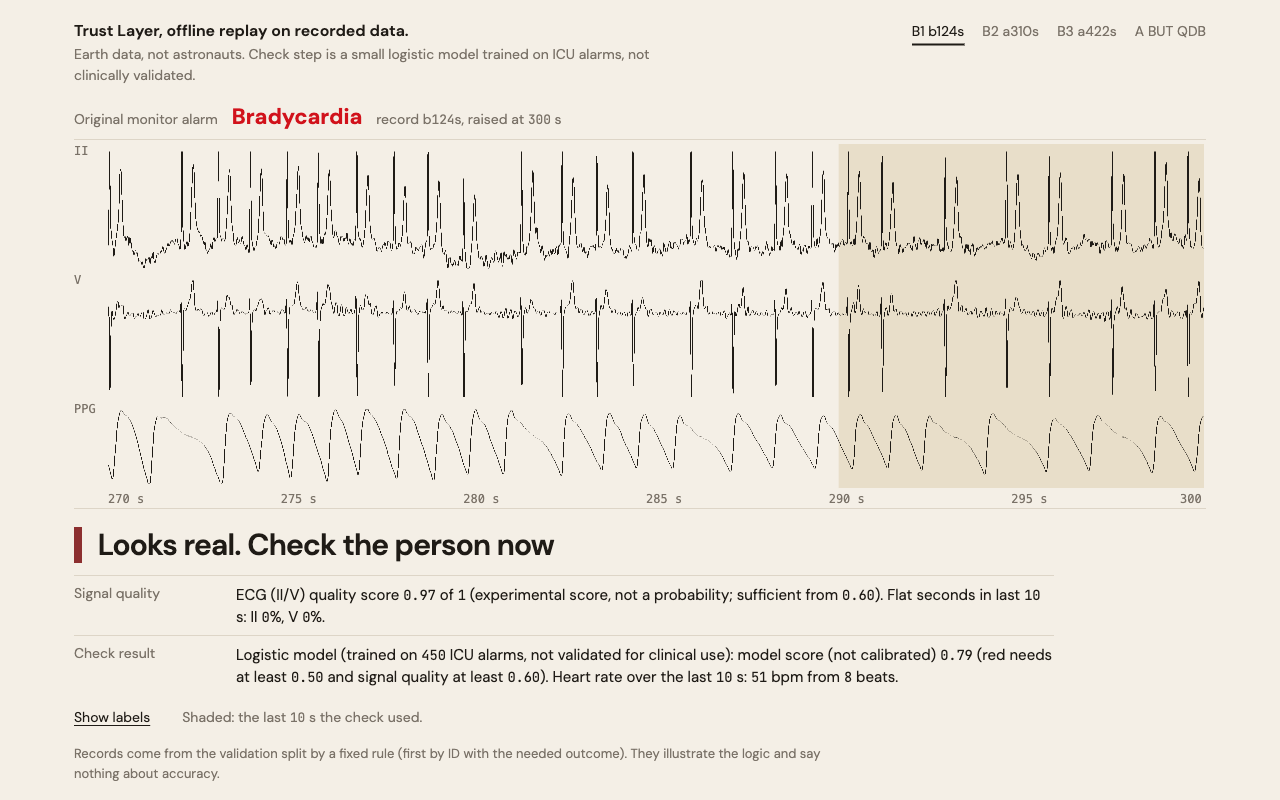
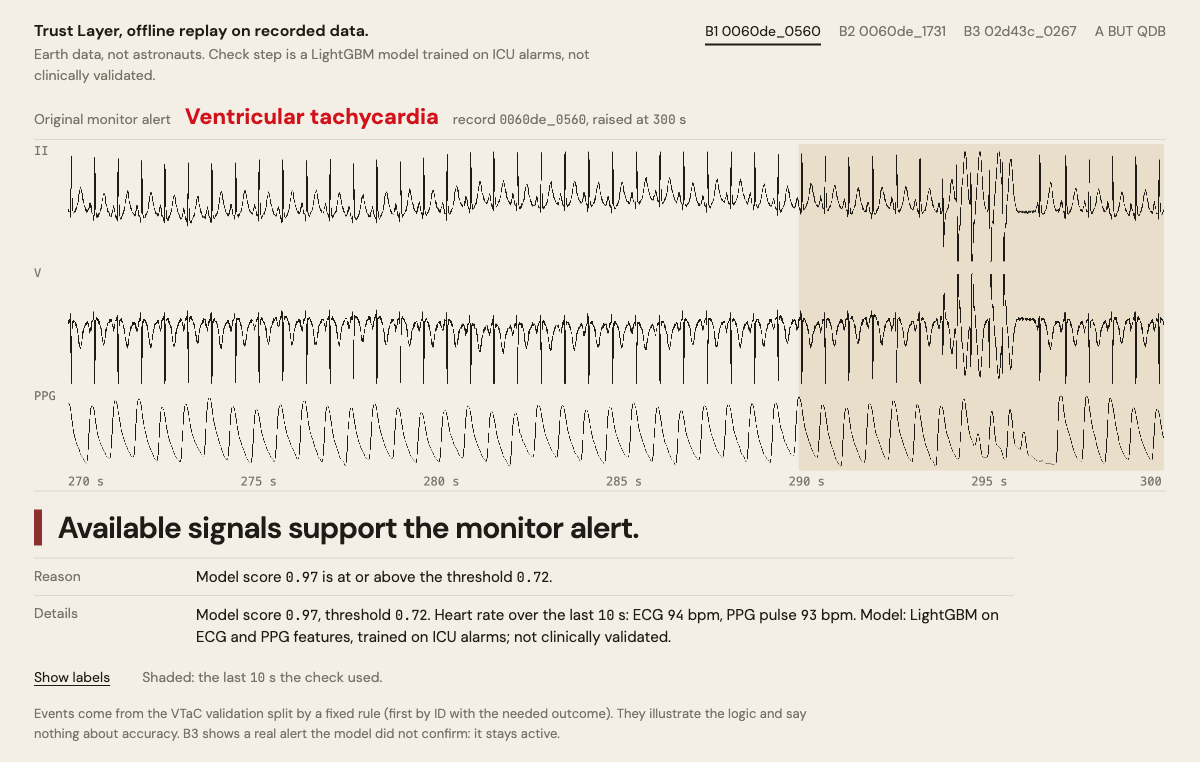
Demo on V5: VTaC val scenes, quality gate removed from red, new texts; log

diff --git a/src/trust/static/index.html b/src/trust/static/index.html
@@ -37,7 +37,7 @@ input[type=range]{width:100%;accent-color:var(--ink);margin:8px 0 0}
 @media (max-width:640px){.action{font-size:23px}.row{grid-template-columns:1fr;gap:0}}
 </style></head><body><main>
 <header>
- <div><h1>Trust Layer, offline replay on recorded data.</h1><p>Earth data, not astronauts. Check step is a small logistic model trained on ICU alarms, not clinically validated.</p></div>
+ <div><h1>Trust Layer, offline replay on recorded data.</h1><p>Earth data, not astronauts. Check step is a LightGBM model trained on ICU alarms, not clinically validated.</p></div>
  <nav id="nav" aria-label="Scenes"></nav>
 </header>
 <div id="view"></div><div class="foot" id="foot"></div>
@@ -72,15 +72,15 @@ function plot(cv,rows,o){
  return m;
 }
 function sceneB(s){
- $('#view').innerHTML=`<div class="alarm"><span class="k">Original monitor alarm</span><span class="v">${esc(s.alarm_type)}</span><span class="m">${num('record '+s.record+', raised at '+s.t_alarm+' s')}</span></div>
+ $('#view').innerHTML=`<div class="alarm"><span class="k">Original monitor alert</span><span class="v">${esc(s.alarm_type)}</span><span class="m">${num('record '+s.record+', raised at '+s.t_alarm+' s')}</span></div>
  <div class="sig"><canvas id="cv" style="height:min(46vh,380px)"></canvas></div>
  <div class="action ${CLS[s.state]}">${esc(s.action)}</div>
- <div class="row"><div class="k">Signal quality</div><div class="t">${num(esc(s.quality_line))}</div></div>
- <div class="row"><div class="k">Check result</div><div class="t">${num(esc(s.check_line))}</div></div>
+ <div class="row"><div class="k">Reason</div><div class="t">${num(esc(s.reason_line))}</div></div>
+ <div class="row"><div class="k">Details</div><div class="t">${num(esc(s.detail_line))}</div></div>
  <div class="tools"><button class="link" id="rv">Show labels</button><span id="rvt" class="labels"></span><span>Shaded: the last ${num(s.highlight_s)} s the check used.</span></div>`;
  const w=$('#cv').clientWidth;plot($('#cv'),[{x:s.channels[0].x,name:s.channels[0].name,h:3},{x:s.channels[1].x,name:s.channels[1].name,h:3},{x:s.channels[2].x,name:'PPG',h:2}],{dur:30,t0:s.t_alarm-30,hi:s.highlight_s});
  let on=false;$('#rv').onclick=()=>{on=!on;$('#rv').textContent=on?'Hide labels':'Show labels';$('#rvt').innerHTML=on?num(esc(s.label_reveal)):''};
- $('#foot').textContent='Records come from the validation split by a fixed rule (first by ID with the needed outcome). They illustrate the logic and say nothing about accuracy.';
+ $('#foot').textContent='Events come from the VTaC validation split by a fixed rule (first by ID with the needed outcome). They illustrate the logic and say nothing about accuracy. B3 shows a real alert the model did not confirm: it stays active.';
 }
 function sceneA(){
  const a=D.a;$('#view').innerHTML=`<div class="alarm"><span class="k">Source</span><span class="m" style="color:var(--ink);font-size:16px">${num(esc(a.record)+', '+a.duration_s+' s from second '+a.t0_s+'. No alarm in this clip.')}</span></div>

diff --git a/src/trust/scenes.py b/src/trust/scenes.py
@@ -2,6 +2,7 @@
 import csv, json, os
 import numpy as np
 from scipy.signal import resample_poly
+from . import vtac
 from .cinc import load, read_alarms
 from .pipeline import run_alarm, quality, Q_GOOD, Q_WIN
 from .signal import FS, flat_frac
@@ -15,9 +16,10 @@ ACC_CAL = [(6.7297, -17228), (9.4294, 8015), (7.124, 4634)]  # из 111001_ACC.h
 TYPE_RU = {"Asystole": "Asystole", "Bradycardia": "Bradycardia", "Tachycardia": "Tachycardia",
            "Ventricular_Tachycardia": "Ventricular tachycardia", "Ventricular_Flutter_Fib": "Ventricular flutter/fibrillation"}
 ACTION = {
-    "red": "Looks real. Check the person now",
-    "yellow": "Event not excluded. Check",
+    "red": "Available signals support the monitor alert.",
+    "yellow": "Verification inconclusive. The original alert remains active.",
 }
+VT = "Ventricular_Tachycardia"
 
 
 def _r(x, n=4):
@@ -25,61 +27,44 @@ def _r(x, n=4):
 
 
 def pick_scene_b():
-    """Правило выбора (фиксировано, без просмотра сигналов): validation, есть PLETH, первая по отсортированным ID запись
-    для каждого сценария: (1) метка true и решение red; (2) метка false, жёлтый и q<0.3; (3) метка false, жёлтый, q>=0.6 (правило условие не подтвердило)."""
-    sp = json.load(open(SPLIT))
-    al = read_alarms()
-    want = {"true_red": None, "false_bad": None, "false_good": None}
-    for r in sorted(sp["validation"]):  # ключ holdout не используется
+    """Правило (фиксировано, без просмотра сигналов): VTaC validation (модель на ней не обучалась, порог выбран на ней), есть PLETH, первая по отсортированному ID событию:
+    (1) метка true и красный; (2) метка false и жёлтый; (3) метка true и жёлтый (настоящая тревога без подтверждения, тревога остаётся)."""
+    ev = vtac.events(); ev = ev[ev.split == "val"].sort_values("event")
+    want = {"true_red": None, "false_yellow": None, "true_yellow": None}
+    for _, e in ev.iterrows():
         if all(want.values()):
             break
-        t, y = al[r]
-        d = load(r)
-        if d["ppg"] is None or len(d["ecg"]) < 1:
+        d = vtac.load(e.record, e.event)
+        if d["ppg"] is None:
             continue
-        o = run_alarm(r, t, d)
-        if want["true_red"] is None and y == 1 and o["state"] == "red":
-            want["true_red"] = r
-        elif want["false_bad"] is None and y == 0 and o["state"] == "yellow" and o["q"] < 0.3:
-            want["false_bad"] = r
-        elif want["false_good"] is None and y == 0 and o["state"] == "yellow" and o["q"] >= Q_GOOD:
-            want["false_good"] = r
+        o = run_alarm(e.event, VT, d)
+        k = ("true_" if e.y == 1 else "false_") + o["state"]
+        if k in want and want[k] is None:
+            want[k] = (e.record, e.event)
     return want
 
 
 def build_b():
-    al = read_alarms()
     scenes = []
-    titles = {"true_red": "B1", "false_bad": "B2", "false_good": "B3"}
-    for key, rec in pick_scene_b().items():
-        if rec is None:
+    titles = {"true_red": "B1", "false_yellow": "B2", "true_yellow": "B3"}
+    for key, rk in pick_scene_b().items():
+        if rk is None:
             raise RuntimeError("no record found for scene " + key)
-        t, y = al[rec]
-        d = load(rec)
-        o = run_alarm(rec, t, d)
+        rec, evn = rk
+        y = int(vtac.events().set_index("event").loc[evn, "y"])
+        d = vtac.load(rec, evn)
+        o = run_alarm(evn, VT, d)
+        f = o["f"]
         n30 = 30 * FS
         ch = [{"name": n, "x": _r(x[-n30:])} for n, x in zip(d["ecg_names"][:2], d["ecg"][:2])]
         ch.append({"name": "PLETH", "x": _r(d["ppg"][-n30:])})
-        flats = {n: round(flat_frac(x[-Q_WIN * FS:]), 2) for n, x in zip(d["ecg_names"][:2], d["ecg"][:2])}
-        info = o["info"]
-        if o["p_true"] is None:
-            check = "Check not run: no ECG, or alarm type not supported."
-        else:
-            check = ("Logistic model (trained on 450 ICU alarms, not validated for clinical use): model score (not calibrated) %.2f "
-                     "(red needs at least 0.50 and signal quality at least %.2f). Heart rate over the last 10 s: %.0f bpm from %d beats."
-                     % (o["p_true"], Q_GOOD, info["hr"], info["n_beats"]))
-            if o["reason_code"] == "signal_quality_low":
-                check += " ECG quality is low, so the result is not used to set the alarm aside."
-            elif o["state"] == "yellow":
-                check += " The model did not confirm the event, but it cannot rule it out, so the alarm stays open."
+        detail = ("Model score %.2f, threshold %.2f. Heart rate over the last 10 s: ECG %.0f bpm, PPG pulse %.0f bpm. "
+                  "Model: LightGBM on ECG and PPG features, trained on ICU alarms; not clinically validated." % (o["p_true"], o["T"], f.get("hr_last10", 0), f.get("ppg_hr10", 0)))
         scenes.append({
-            "id": key, "title": titles[key], "record": rec, "alarm_type": TYPE_RU[t], "t_alarm": 300,
+            "id": key, "title": titles[key], "record": evn, "alarm_type": TYPE_RU[VT], "t_alarm": 300,
             "state": o["state"], "action": ACTION[o["state"]], "reason_code": o["reason_code"],
-            "quality_line": ("ECG (%s) quality score %.2f of 1 (experimental score, not a probability; sufficient from %.2f). Flat seconds in last 10 s: %s."
-                             % ("/".join(d["ecg_names"][:2]), o["q"], Q_GOOD, ", ".join("%s %.0f%%" % (k, 100 * v) for k, v in flats.items()))
-                             + (" Signal quality low. Check the sensor." if o["q"] < Q_GOOD else "")),
-            "check_line": check, "channels": ch, "fs": FS, "highlight_s": Q_WIN,
-            "label_reveal": "CinC 2015 expert label: alarm %s." % ("confirmed" if y == 1 else "not confirmed"),
+            "reason_line": o["reason"], "detail_line": detail, "channels": ch, "fs": FS, "highlight_s": Q_WIN,
+            "label_reveal": "VTaC expert label: alert %s." % ("confirmed" if y == 1 else "not confirmed"),
         })
     return scenes
 

diff --git a/src/trust/pipeline.py b/src/trust/pipeline.py
@@ -108,18 +108,27 @@ class VirtualSensor:
                 yield {"t": i / self.fs, "channel": name, "samples": v[i:i + self.n]}
 
 
+_V5 = {}
+REASONS = {"ppg_unavailable": "PPG channel unavailable", "incomplete_ecg_window": "Incomplete ECG window"}
+
+
 def run_alarm(rec, alarm_type, d):
-    """d: результат cinc.load. V3 (замороженная логистическая регрессия, models/v3_logreg.json) + q (quality_v2).
-    Метка записи сюда НЕ передаётся."""
-    from . import model as M          # локально: features.py импортирует pipeline
-    from .features import extract
-    e1 = d["ecg"][0] if d["ecg"] else None
-    e2 = d["ecg"][1] if len(d["ecg"]) > 1 else None
-    seg = {"ecg1": e1, "ecg2": e2, "ppg": d["ppg"], "alarm_type": alarm_type, "fs": FS}
-    win = np.array([x[-Q_WIN * FS:] for x in d["ecg"]])
-    q = quality(win) if len(win) else 0.0
-    v0, info = verify_detail(seg)      # V0 остаётся для пояснения (ЧСС за 10 с), не для решения
-    if e1 is None or alarm_type not in SUPPORTED:
-        return {"q": round(q, 3), "p_true": None, "info": info, **decide(q, None, alarm_type)}
-    p = M.predict(M.load(), extract(d, alarm_type))
-    return {"q": round(q, 3), "p_true": round(p, 3), "info": info, **decide(q, p, alarm_type)}
+    """V5: LightGBM на feat2 (models/v5_lgbm.txt), красный только при p >= T (T=0.7155, выбран на VTaC validation).
+    Шлюз качества BUT на ICU убран из условия красного. Жёлтый с причиной, если нет PPG или окно ЭКГ неполное. Метка сюда НЕ передаётся."""
+    import json as _j
+    import lightgbm as lgb      # без torch в одном процессе (segfault)
+    from . import feat2
+    if not _V5:
+        _V5["cfg"] = _j.load(open(os.path.join(os.path.dirname(__file__), "..", "..", "models", "v5_config.json")))
+        _V5["b"] = lgb.Booster(model_file=os.path.join(os.path.dirname(__file__), "..", "..", "models", "v5_lgbm.txt"), params={"num_threads": 1})
+    cfg = _V5["cfg"]
+    if not d["ecg"] or len(d["ecg"][0]) < 300 * FS:
+        return {"p_true": None, "state": "yellow", "reason_code": "incomplete_ecg_window", "reason": REASONS["incomplete_ecg_window"], "T": cfg["T"], "f": {}}
+    f = feat2.extract(d, alarm_type)
+    import pandas as _pd
+    p = float(_V5["b"].predict(_pd.DataFrame([f])[cfg["features"]])[0])
+    if d["ppg"] is None:
+        return {"p_true": round(p, 3), "state": "yellow", "reason_code": "ppg_unavailable", "reason": REASONS["ppg_unavailable"], "T": cfg["T"], "f": f}
+    if p >= cfg["T"]:
+        return {"p_true": round(p, 3), "state": "red", "reason_code": "score_at_or_above_threshold", "reason": "Model score %.2f is at or above the threshold %.2f." % (p, cfg["T"]), "T": cfg["T"], "f": f}
+    return {"p_true": round(p, 3), "state": "yellow", "reason_code": "score_below_threshold", "reason": "Model score %.2f is below the threshold %.2f." % (p, cfg["T"]), "T": cfg["T"], "f": f}

diff --git a/progress/logs/Rafael.md b/progress/logs/Rafael.md
@@ -119,3 +119,18 @@
 - По типам CinC hold-out (красные true/false): Tachycardia 23/1 (из 25 true), VT 11/1 (из 17 true), Bradycardia 5/0 (из 6), Asystole 2/0 (из 5), VF-Flutter 0/1 (0 true из 10).
 Не работает / риск: (а) CinC hold-out ранее открывался один раз для V3 (не для V4), поэтому «second look» не независимая оценка; (б) момент тревоги в VTaC принят за 300 с по инструкции лида, не подтверждено по документации; (в) в Tachycardia 25/26 настоящих, часть выигрыша это базовая доля типа; на Asystole 2 из 5 настоящих в красной, 3 остаются в жёлтой (тревога сохранена); (г) 15 из 137 настоящих тревог VTaC и 12 из 53 CinC в жёлтой группе (не скрыты); (д) один размер выборки CinC маленький, ДИ широкие; (е) lightgbm и torch в одном процессе падают (segfault), для интеграции в демо нужен раздельный запуск; (ж) качество (шлюз q_v2) в V4 не используется, вместо него SQI-признаки внутри модели.
 Следующий шаг: решить, подключать ли V4 к демо; тест-наборы больше не открывать.
+
+## 2026-11-15 12:50 | Rafael (Claude Code) | V5 (LightGBM, VTaC type=VT), VTaC test, latency, learning curve, демо на V5
+Сделано: (1) loader VTaC: assert уникальности событий, one_to_one merge, decision только true/false (раньше всё не-true молча давало 0); 5037 событий, 482 test, файлы test на месте (0 пропусков), feat2 test 482 строки. VTaC закодирован как VT (по docs/11). (2) V5 = LightGBM без CNN; обучение CinC train+val 600 + VTaC train 4060; T=0.7155 одним числом на VTaC val по правилу «наименьший T с precision>=0.85» (на val: красная 85 = 73 true + 12 false, precision 0.859 [0.766, 0.933], recall 0.518, coverage 0.172). Заморозка c4cd79d, затем VTaC test один раз (`scripts/v5.py test`, `results/v5_vtac_test.json`).
+ВАЖНО: VTaC test до этого уже открывался один раз для V4 (a024eb0). Прогон V5 это второе открытие; чистым тестом он не является. T и модель выбраны без test.
+Результат [Точно, наше измерение, VTaC test n=482 (137 true), 226 пациентов... см. json; bootstrap по записи-пациенту B=2000]:
+- V5: красная 86 (79 true / 7 false); precision 0.919 [0.843, 0.977]; recall 0.577 [0.457, 0.687]; coverage 0.178 [0.122, 0.239]
+- keep-all: 137/482, precision 0.284 [0.218, 0.348]; recall 1; coverage 1
+- ECG-only V0: 269 (84/185); precision 0.312 [0.222, 0.402]; recall 0.613; coverage 0.558
+- V3 с шлюзом BUT: 24 (11/13); precision 0.458 [0.231, 0.656]; recall 0.080; coverage 0.050
+- V3 без шлюза: 111 (63/48); precision 0.568 [0.433, 0.685]; recall 0.460; coverage 0.230
+V5 лучше V3 и baseline по precision при recall выше, чем у V3 с шлюзом, и ниже, чем у V3 без шлюза (0.577 против 0.460: выше). Решение: остаётся V5, не V3. (V4 с CNN дал recall 0.89 при precision 0.853 на этом же тесте: другая точка работы; CNN не трогали.)
+(4) results/latency.json: 30.2 мс медиана / 45.9 мс p95 на тревогу (300 с, 1 поток; признаки 29.5 мс, predict 0.8 мс), чтение файла 3.5 мс; пиковая память 381 МБ процесса (222 МБ после импортов); модель 520 КБ; Apple M5 Pro 18 ядер, 52 ГБ, Python 3.12. Не бортовое железо.
+(7) results/learning_curve.json, VTaC val, красная группа фиксирована = 85: precision 25% данных 0.828 (5 подвыборок, мин-макс в json), 50% 0.828, 100% 0.859 (73/85). Рост небольшой, на val из 495 событий различия в пределах шума.
+(5) Демо: сцены B теперь на V5 и на VTaC validation (модель на них не обучалась); шлюз BUT убран из условия красного; причины «PPG channel unavailable», «Incomplete ECG window», иначе «Model score x is (at or above / below) the threshold». Тексты: «Original monitor alert: ...» одинаково; красный «Available signals support the monitor alert.»; жёлтый «Verification inconclusive. The original alert remains active.». B3 = настоящая тревога, оставшаяся жёлтой (честный пример). Сцена A (BUT, носимый датчик) без изменений.
+Не работает / риск: red-порог выбран по val правилом precision>=0.85 на 495 событиях (зашумлён); VT-only: на CinC (5 типов) V5 не оценивался заново; LightGBM недетерминирован между запусками (size красной группы val 85 vs 70 при перезапуске), поэтому финальный бустер сохранён в models/v5_lgbm.txt; демо использует его, не переобучает.
